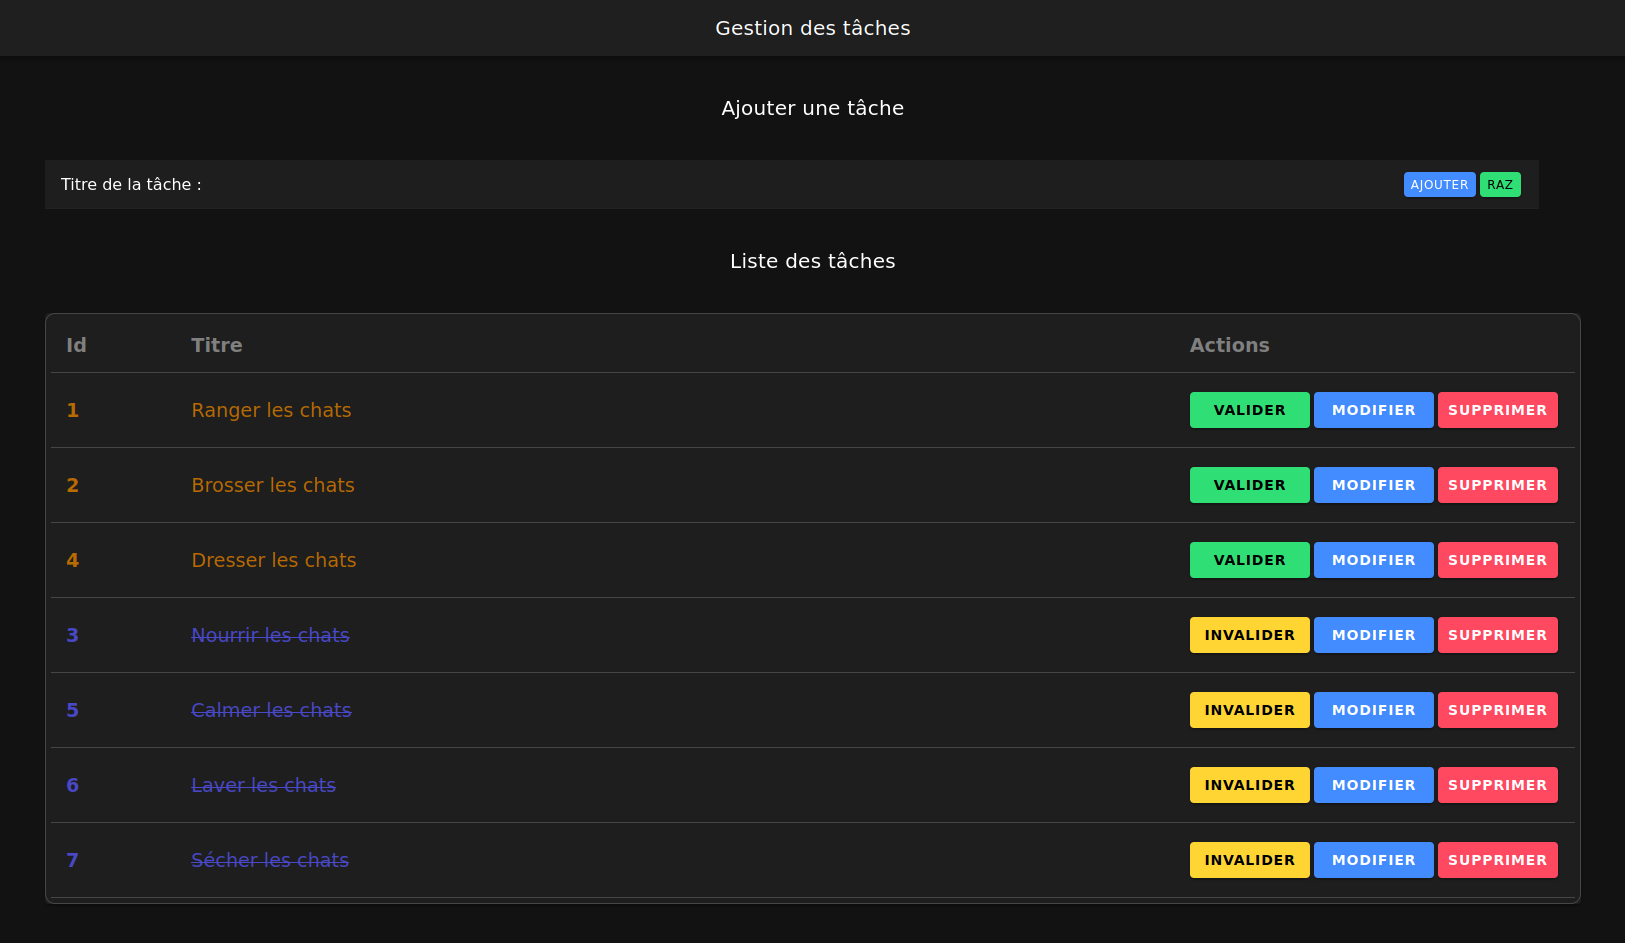
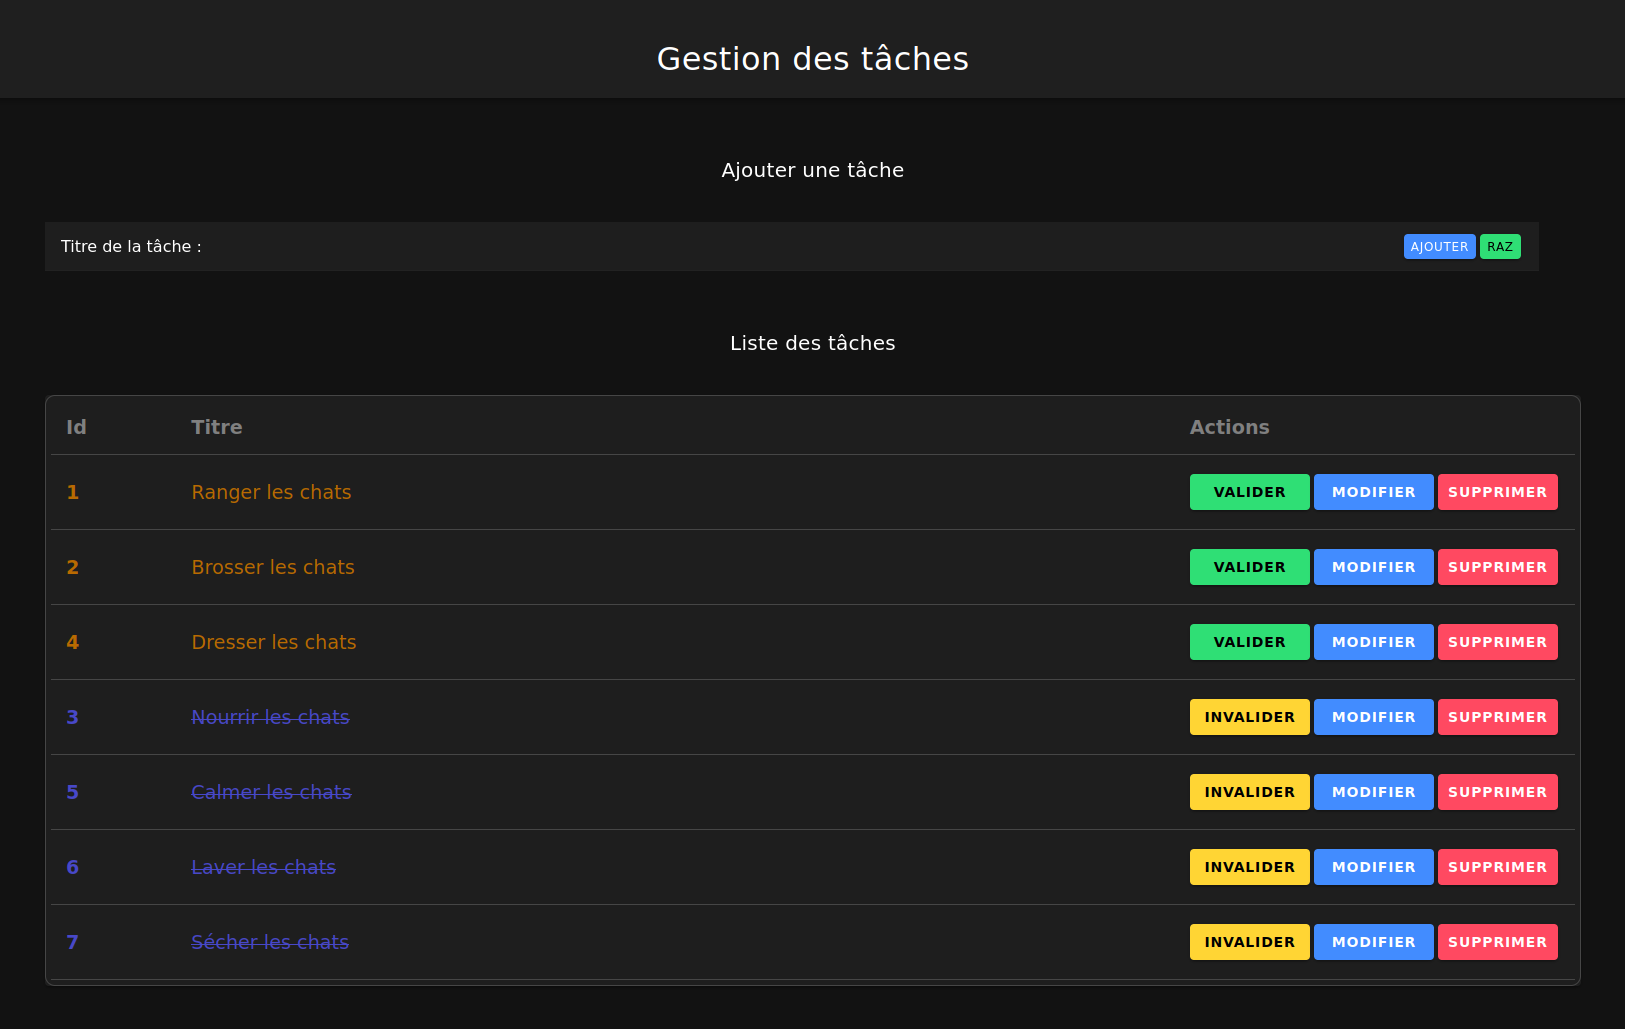
css ++++++

diff --git a/src/pages/Home.tsx b/src/pages/Home.tsx
@@ -56,11 +56,11 @@ const Home: React.FC = () => {
     const click$ = fromEvent(addButton, "click");
     const doubleClick$ = click$.pipe(bufferCount(2));
     const subscription = doubleClick$.subscribe(() => {
-      handleAddTask();
+      handleClickFormTask();
     });
 
     return () => subscription.unsubscribe();
-  }, [handleAddTask]);
+  }, [handleClickFormTask]);
 
   const toggleCompletion = (taskId: number) => {
     const task = tasks.find((task) => task.id === taskId);
@@ -118,7 +118,7 @@ const Home: React.FC = () => {
     if(title) title.innerText = "Modifier une tâche";
   };
 
-  function handleAddTask() {
+  function handleClickFormTask() {
     if (newTask !== "") {
       if (flagMode.current === "add") {
         const task = { title: newTask, completed: false };
@@ -151,13 +151,13 @@ const Home: React.FC = () => {
             return Number(a.completed) - Number(b.completed);
           });
           setTasks(newTasks);
-          reset();
+          resetForm();
         });
       }
     }
   }
 
-  const reset = () => {
+  const resetForm = () => {
     setNewTask("");
     setNewCompleted(true);
     setNewId(0);
@@ -170,7 +170,7 @@ const Home: React.FC = () => {
     <IonPage>
       <IonHeader>
         <IonToolbar>
-          <IonTitle className="text-center">Gestion des tâches</IonTitle>
+          <IonTitle size="large" className="text-center large-title">Gestion des tâches</IonTitle>
         </IonToolbar>
       </IonHeader>
       <IonContent fullscreen>
@@ -183,10 +183,10 @@ const Home: React.FC = () => {
             value={newTask}
             onIonChange={(event) => setNewTask(event.detail.value!)}
           />
-          <IonButton color="primary" onClick={handleAddTask}>
+          <IonButton color="primary" onClick={handleClickFormTask}>
             {flagMode.current === "add" ? "Ajouter" : "Modifier"}
           </IonButton>
-          <IonButton color="success" onClick={reset}>Raz</IonButton>
+          <IonButton color="success" onClick={resetForm}>Raz</IonButton>
         </IonItem>
         <IonTitle size="large" className="text-center title-margin">
           Liste des tâches

diff --git a/src/pages/Home.css b/src/pages/Home.css
@@ -75,9 +75,16 @@
 }
 
 .title-margin {
-    margin-top: 40px;
+    margin-top: 60px;
 }
 
 .font-bold {
     font-weight: bold;
 }
+
+.large-title {
+    margin-top: 40px;
+    margin-bottom: 20px;
+    font-size: 2em;
+   }
+   
